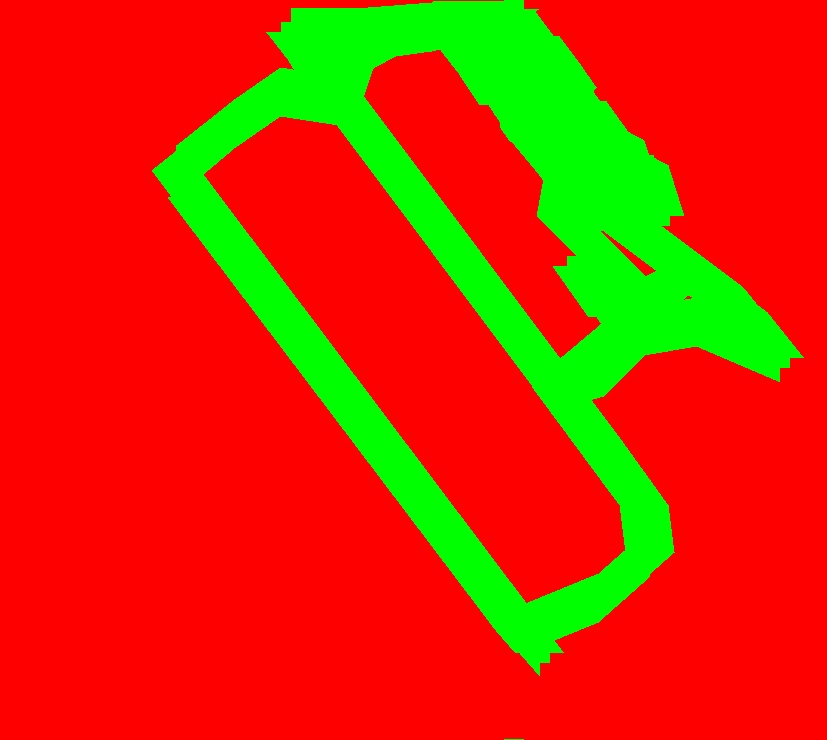
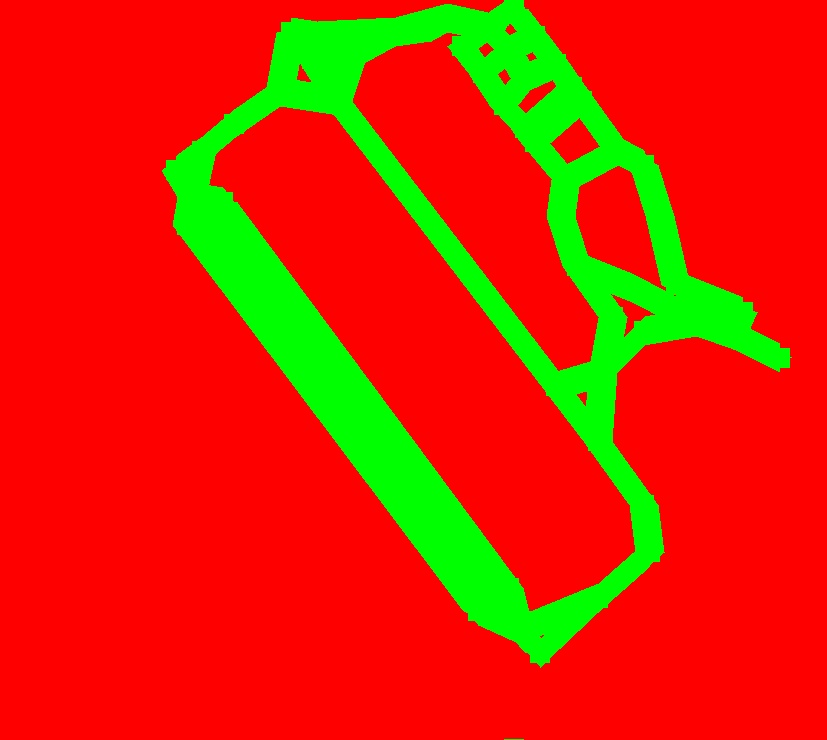
amélioration du graphe (blagnac_graphe) et de blagnac_area, correction bug important tracage area)

Changed region(s): [[0.1814, 0.0, 0.9674, 0.9324], [0.5139, 0.6216, 0.5744, 0.7149]]

diff --git a/Annexe/Affichage_graphe/appliquer_tableau.py b/Annexe/Affichage_graphe/appliquer_tableau.py
@@ -82,7 +82,7 @@ for i in range(len(LN1)):
 
 	Y=range(abs(LY[LN2[i]]-LY[LN1[i]]))
 	for y in Y:
-			x=int( ( y+min(LY[LN1[i]],LY[LN2[i]]) - b)/a  )
+			x=int((y+min(LY[LN1[i]],LY[LN2[i]]) - b)/a  )
 			image[y+min(LY[LN1[i]],LY[LN2[i]])][x]=(0, 0, 0)
 
 mpimg.imsave("blagnac_graphe.jpg",image)
@@ -109,9 +109,9 @@ for i in range(len(LN1)):
 
 
 for i in range(len(LN1)):
-	LN1[i]=int(LN1[i])-1
+	LN1[i]=int(LN1[i])
 for i in range(len(LN2)):
-	LN2[i]=int(LN2[i])-1
+	LN2[i]=int(LN2[i])
 
 
 for i in range(len(LN1)):
@@ -127,7 +127,7 @@ for i in range(len(LN1)):
 
 	X=range(abs(LX[LN2[i]]-LX[LN1[i]]))
 	for x in X:
-		for l in range(25):
+		for l in range(15):
 			y=int(a*(x+min(LX[LN1[i]],LX[LN2[i]]))+b)
 			if y<len(image):
 				if y+l<len(image):
@@ -137,7 +137,7 @@ for i in range(len(LN1)):
 
 	Y=range(abs(LY[LN2[i]]-LY[LN1[i]]))
 	for y in Y:
-		for l in range(25):
+		for l in range(15):
 				x=int((y+min(LY[LN1[i]],LY[LN2[i]])-b)/a)
 				if x+l<len(image[0]):
 					if x-l>0:
